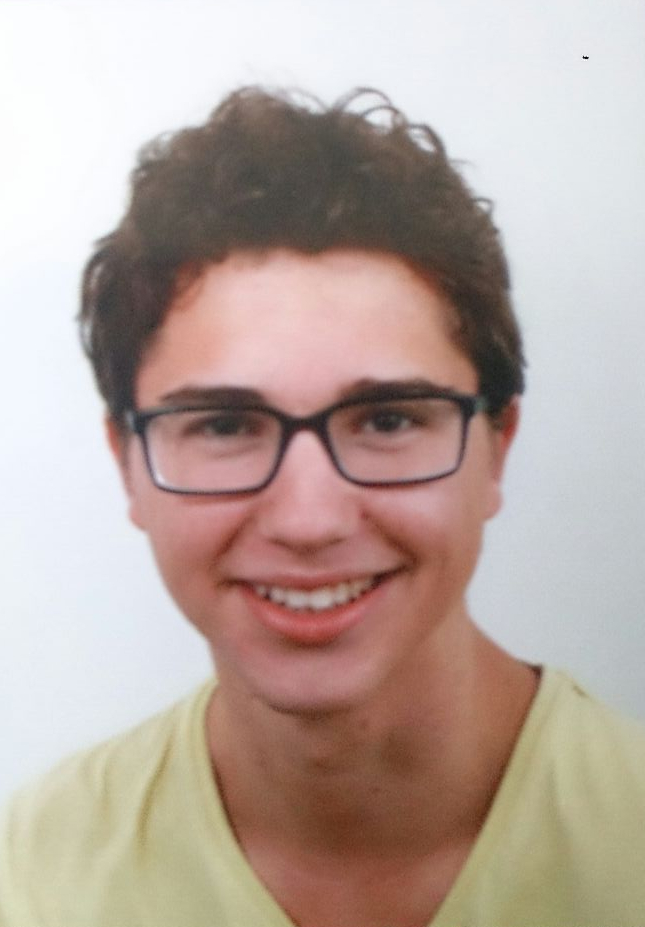
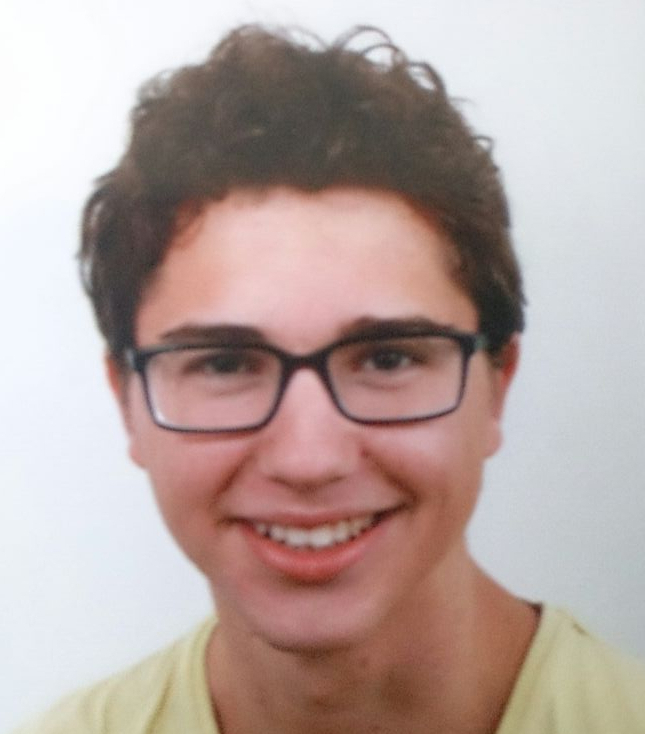
foto changed and columns fixed

diff --git a/index.html b/index.html
@@ -139,8 +139,22 @@
             </h2>
             <p class="lead">CHARLOTTE WAS NECKING ON WITH GARY, AND JAMES COULDN'T PULL</p>
         </div>
-        <img class="featurette-image img-circle img-responsive" src="img/heads/jeroen.jpg" width="150px">
-
+        <div class="col-md-3">
+        	<img class="featurette-image img-circle img-responsive" src="img/heads/jeroen.jpg" width="150px">
+        	<p class="lead">Jeroen</p>
+				</div>
+				<div class="col-md-3">
+        	<img class="featurette-image img-circle img-responsive" src="img/heads/jeroen.jpg" width="150px">
+        	<p class="lead">Jimmy</p>
+				</div>
+				<div class="col-md-3">
+        	<img class="featurette-image img-circle img-responsive" src="img/heads/jeroen.jpg" width="150px">
+        	<p class="lead">Patrick</p>
+				</div>
+				<div class="col-md-3">
+        	<img class="featurette-image img-circle img-responsive" src="img/heads/jeroen.jpg" width="150px">
+        	<p class="lead">Stef</p>
+				</div>
         <hr class="featurette-divider">
 
         <!-- Footer -->
